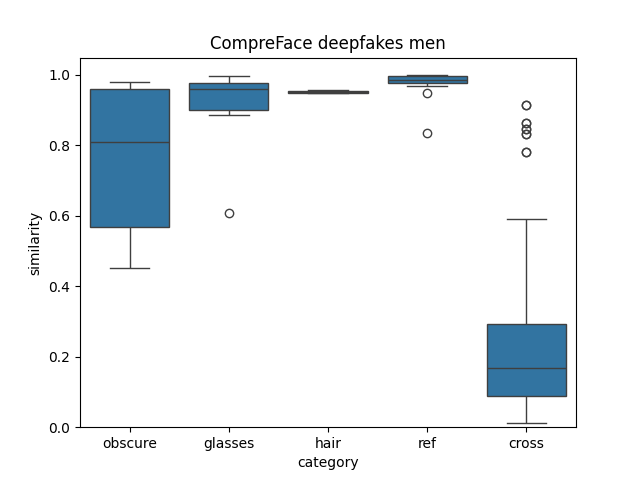
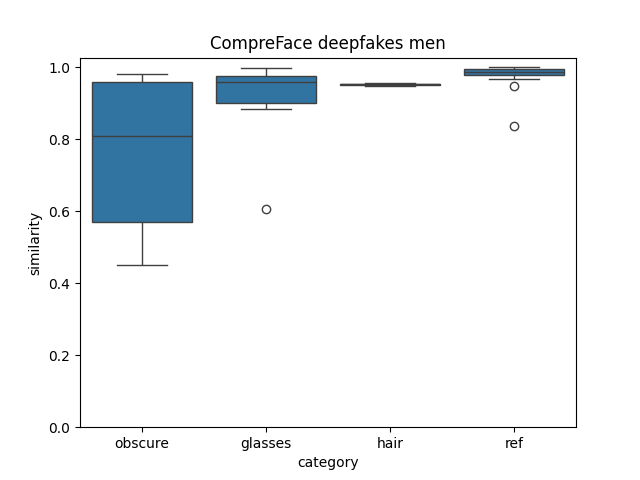
Changed graphs for CompreFace to not include cross column

diff --git a/CompreFace_scripts/plot_results.py b/CompreFace_scripts/plot_results.py
@@ -43,7 +43,8 @@ def main():
             dfs.append(df)
     result_df = pd.concat(dfs, ignore_index=True)
     if (result_df['target'].str.contains('_result.jpg')).any():
-        cols = ['obscure', 'glasses', 'hair', 'ref', 'cross']
+        cols = ['obscure', 'glasses', 'hair', 'ref']
+        result_df = result_df[result_df['category'] != 'cross']
     else:
         cols = ['obscure', 'glasses', 'hair', 'cross']
     sns.boxplot(result_df, x='category', y='similarity', order=cols)
